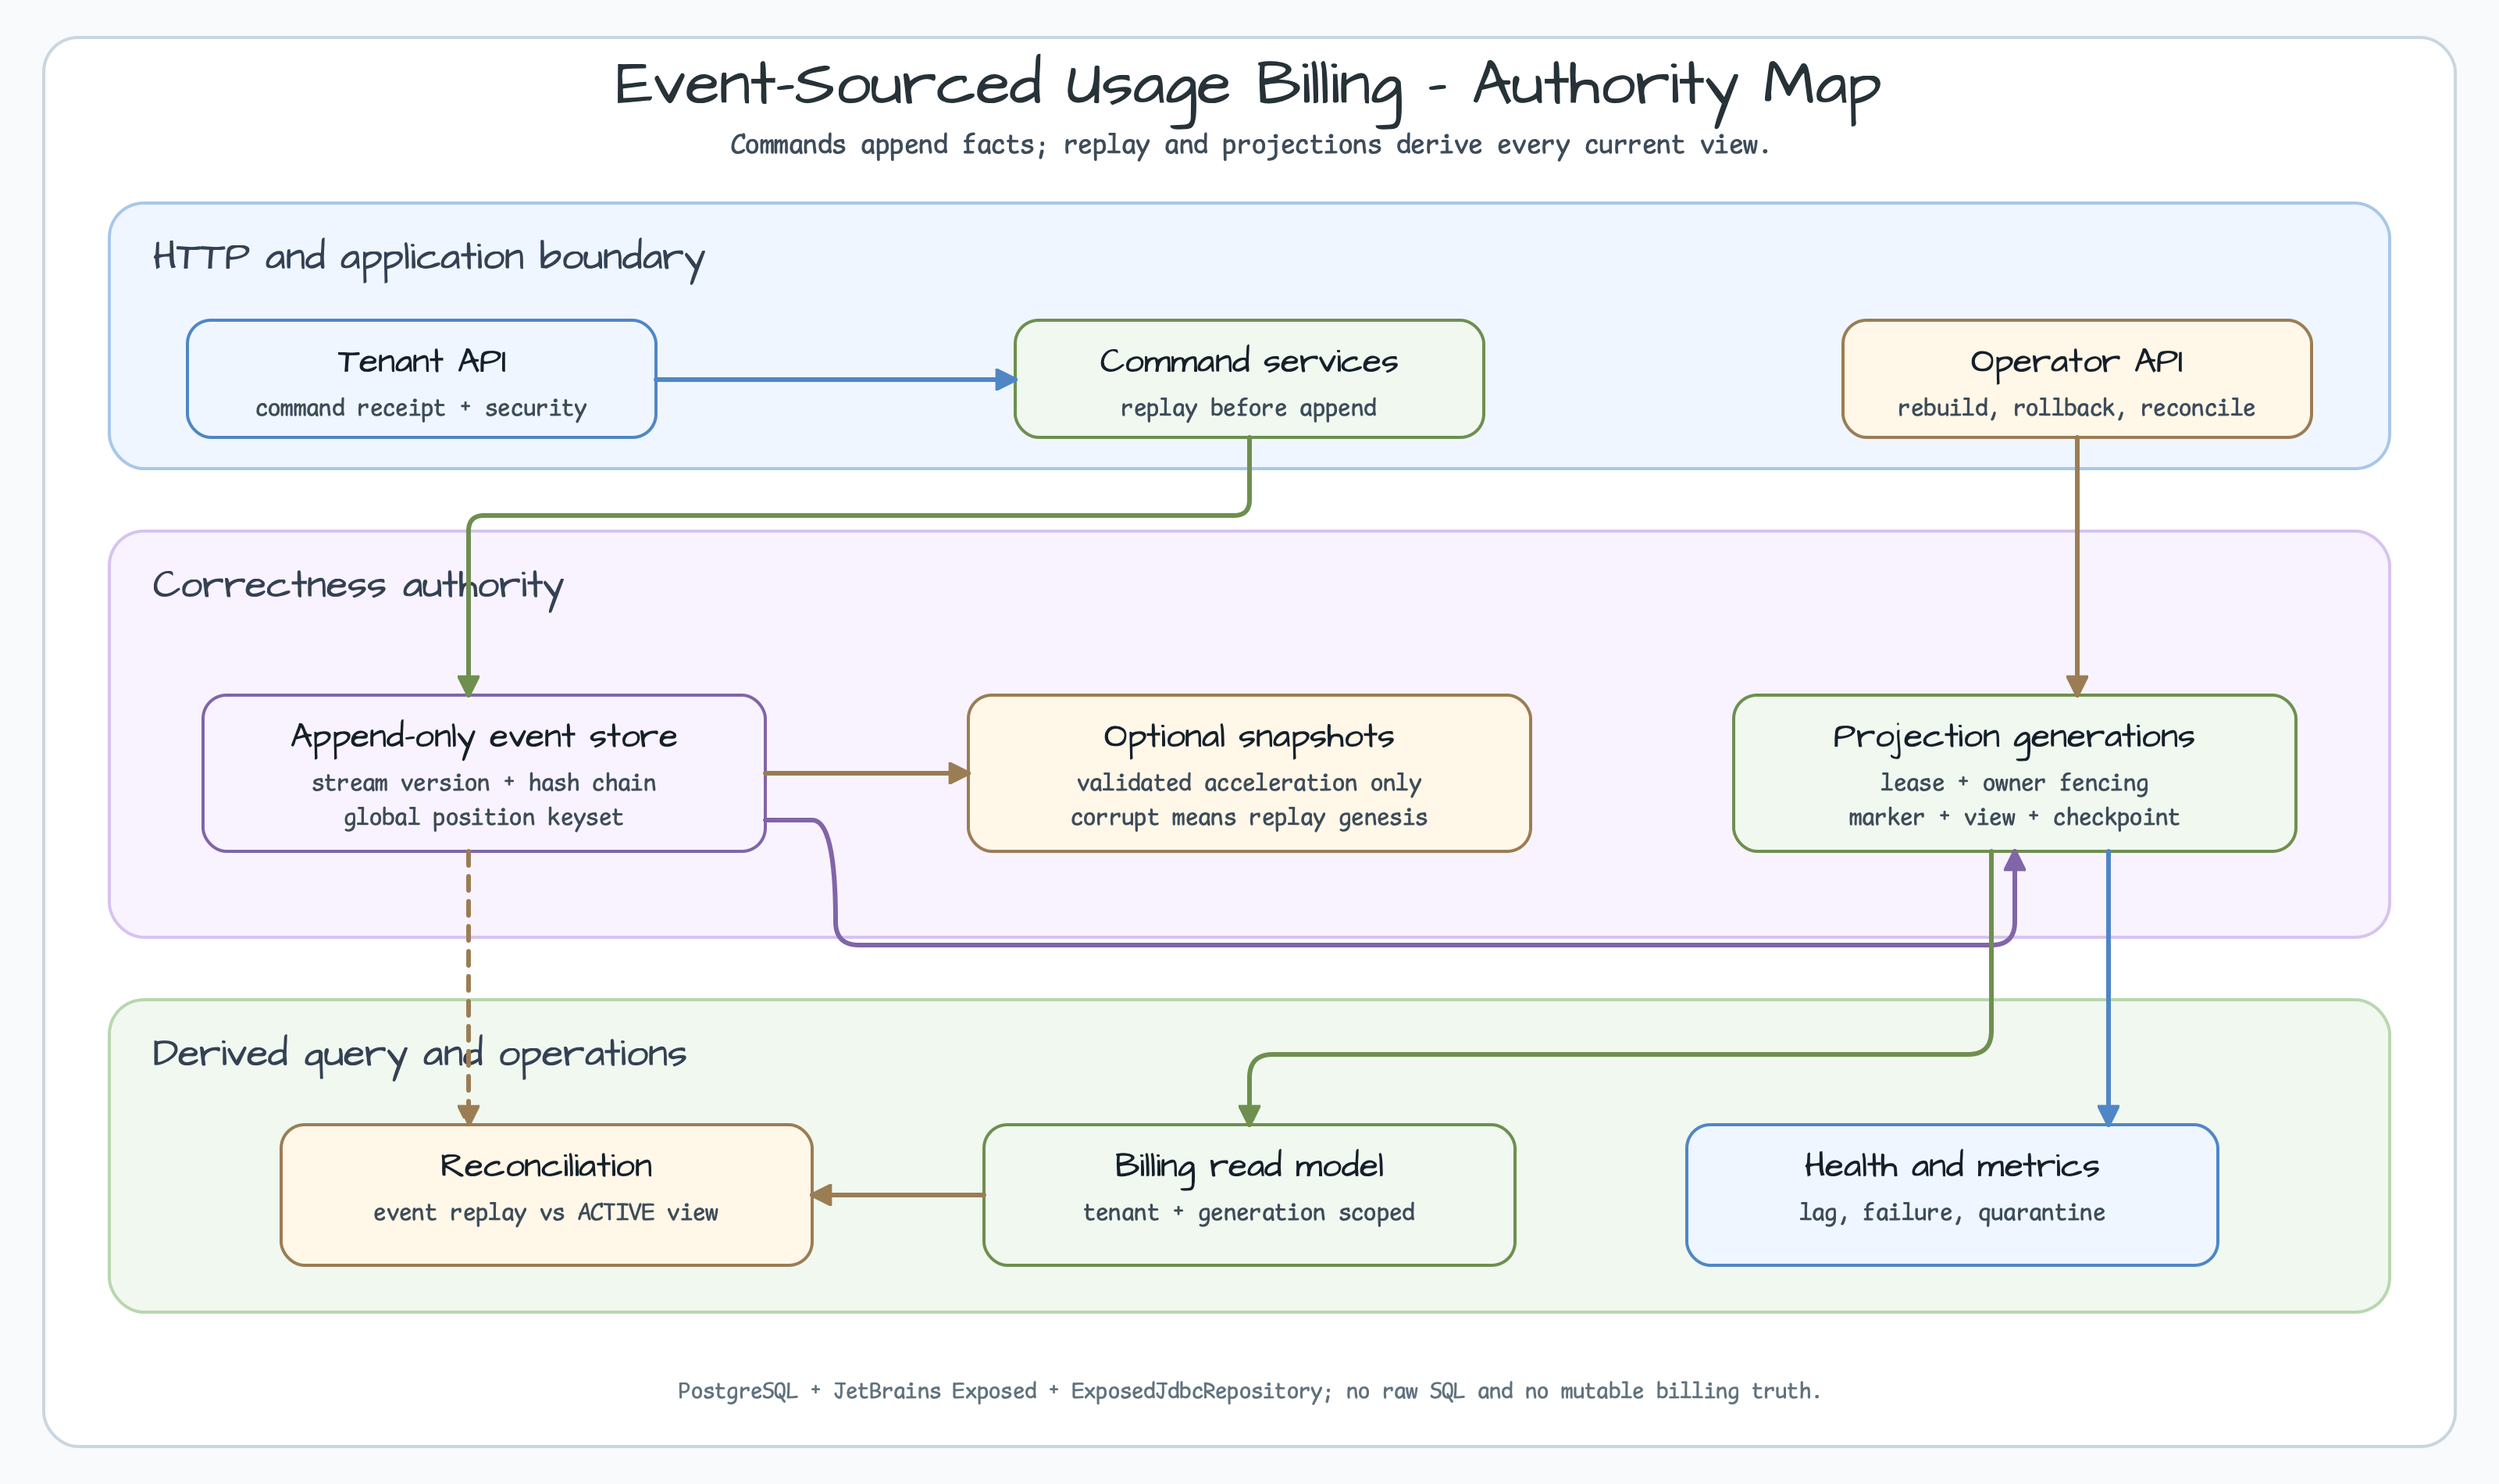
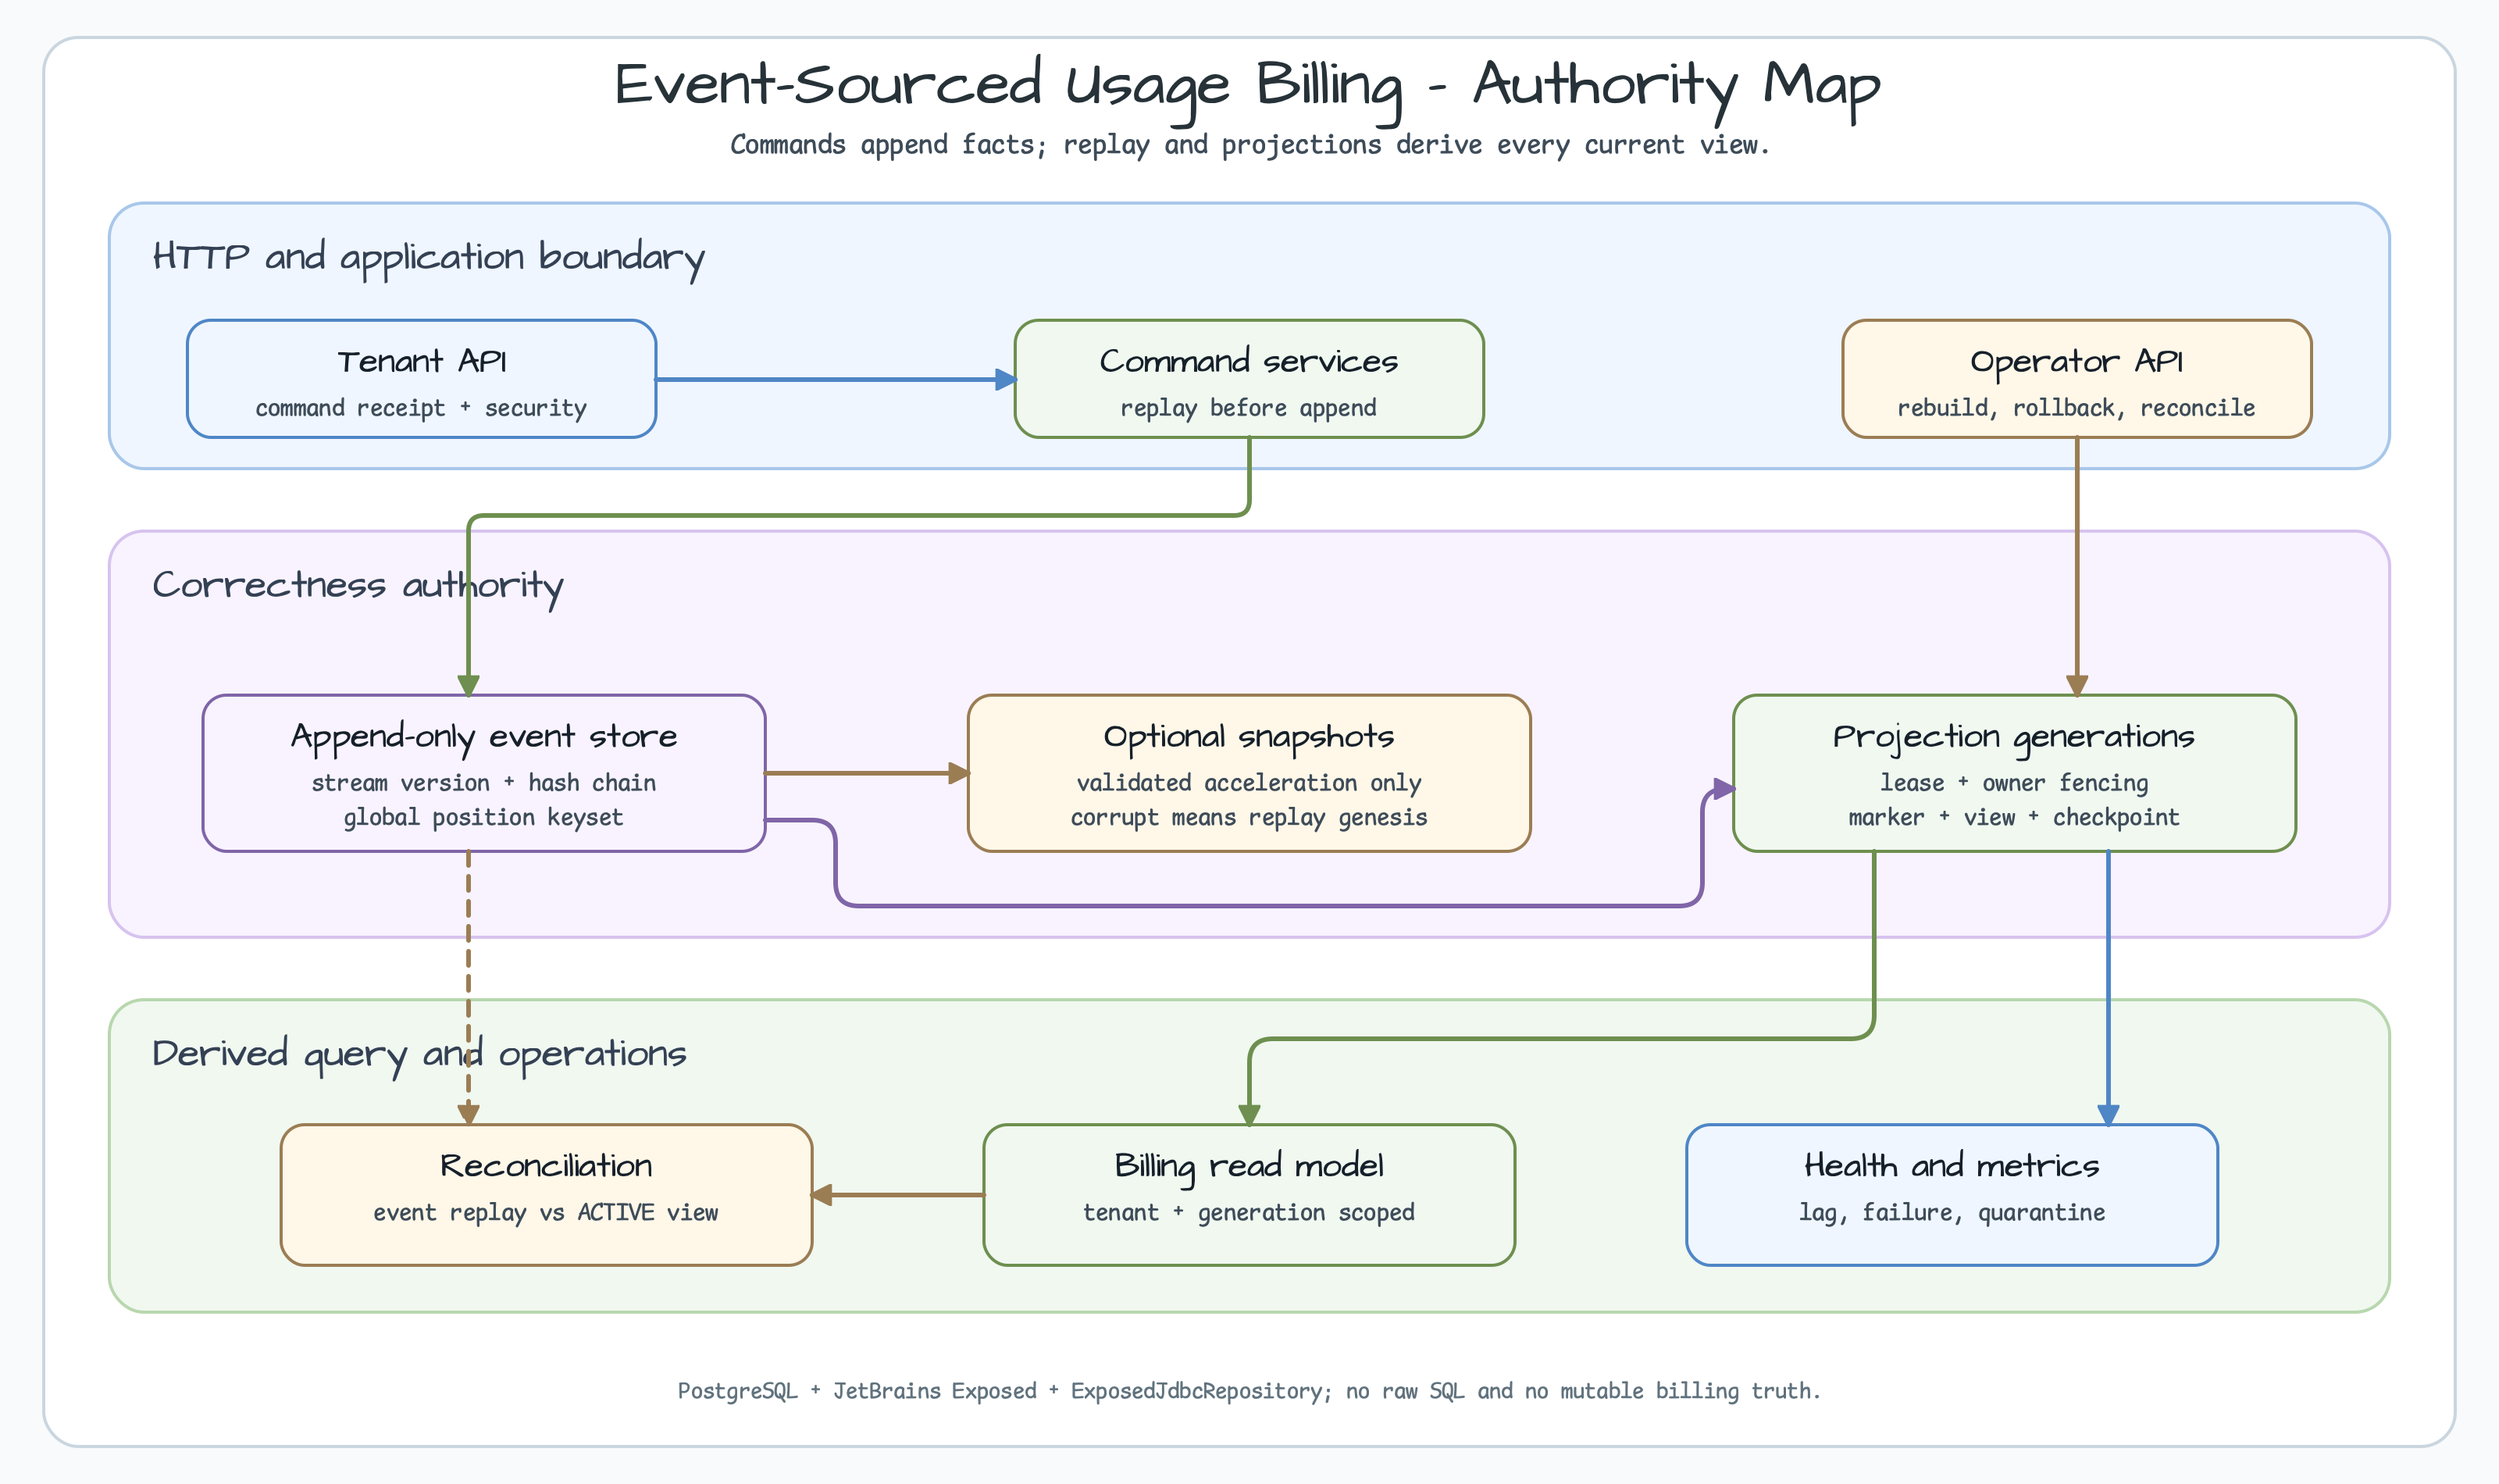
Make rendered billing diagrams trustworthy
Constraint: PNG output is authoritative and must not depend on CairoSVG marker orientation for multi-segment correction flows.
Rejected: marker-only verification | it missed cross-renderer arrowhead direction drift.
Confidence: high
Scope-risk: narrow
Directive: For multi-segment cross-renderer-sensitive arrows, use audited direct heads and inspect the final PNG.
Tested: generator check; SVG XML; text, connector, geometry, endpoint, mixed-corner, direct-head audits; full-size PNG inspection; git diff --check.
Not-tested: Browser renderer matrix beyond the SVG and CairoSVG PNG pair.

Changed region(s): [[0.3438, 0.5589, 0.8125, 0.6521], [0.5, 0.6832, 0.7812, 0.7142], [0.3125, 0.5589, 0.3438, 0.59]]

diff --git a/docs/review/2026-07-22-issue-553-event-sourced-usage-billing-review.md b/docs/review/2026-07-22-issue-553-event-sourced-usage-billing-review.md
@@ -19,6 +19,15 @@
 | P1 | 보안 | `IllegalStateException` message를 그대로 응답해 stream/event 식별자가 노출될 수 있음 | colon 뒤 context를 제거하고 allowlist 형식의 stable error code만 반환 |
 | P1 | 입력 경계 | allowlisted event type이어도 serialized payload byte 상한이 없음 | payload 64 KiB, metadata 4 KiB UTF-8 상한을 codec 경계에서 검사하고 회귀 테스트 추가 |
 | P1 | 운영 정보 | public health와 operator metric endpoint의 공개 범위가 불명확 | health status는 public, detail과 `/actuator/metrics/**`는 `ROLE_OPERATOR`로 제한하고 통합 테스트 추가 |
+| P1 | PNG diagram | architecture의 projection 진입/이탈 connector가 같은 하단 통로에 과도하게 붙고, correction의 multi-segment marker 화살촉이 SVG/PNG에서 방향 drift 가능 | connector 포트를 분리한 rounded-corner route로 재배치하고, correction의 세 화살촉을 선 endpoint에 고정한 direct polygon으로 교체; 방향·색·dash·marker override를 QA에서 검증 |
+
+## PNG authoritative 재검수
+
+- 최초 diagram PASS 판정은 이 두 자산의 full-size PNG에서 connector 통로 분리와 cross-renderer arrowhead parity를 충분히 입증하지 못했으므로 철회한다.
+- architecture는 event store → projection route를 projection 좌측 포트로 종료하고, projection → read model은 별도 하단 좌측 포트와 독립 corridor로 분리했다. connector audit은 `crossings=0`, `shared_segments=0`, `q_bends=8`, `failures=0`이다.
+- correction의 `original-view`, `adjust-view`, `original-reconcile`은 CSS `marker-end`를 명시적으로 끄고 endpoint-tip direct polygon을 사용한다. QA는 connector endpoint와 tip의 일치, 최종 선분 방향, semantic stroke 색, dash 차단을 모두 검사한다.
+- generator 재생성, SVG XML parse, CairoSVG PNG render, geometry/endpoint/connector/mixed-corner audit, QA wrapper, PNG full-size inspection을 두 자산에 각각 다시 수행했다. correction direct-head audit은 `heads=3 failures=0`이다.
+- CairoSVG가 `±` glyph을 대체 문자로 렌더링하는 것도 같은 재검수에서 발견해 `+/-`로 치환했다. rendered PNG가 source SVG와 달라질 수 있는 문자/marker는 PNG 기준으로 계속 검사한다.
 
 ## 6관점 결과
 
@@ -58,7 +67,7 @@
 - operator rebuild는 생성, 멱등 replay, concurrent rebuild 거부, scheduler ACTIVE switch를 한 통합 시나리오로 검증한다.
 - fresh full run에서 unit 19건, PostgreSQL integration 35건, 10,000 usage stress 1건이 실패 없이 통과했다.
 - Kover XML, `build`, `detekt`, `detektTest`, baseline ledger test를 포함한 30개 Gradle task가 `--rerun-tasks`로 모두 실행됐다.
-- module README validator, stale-check, actionlint, generator/shell syntax, 8개 diagram QA와 `git diff --check`가 통과했다.
+- module README validator, stale-check, actionlint, generator/shell syntax, 8개 diagram QA와 `git diff --check`가 통과했다. 이후 PNG diagram 재검수에서 발견된 두 결함은 위의 별도 재검수로 보완했다.
 - repo-wide README parity validator의 기존 3개 실패 모듈은 `origin/develop`과 동일하고 이번 branch가 수정하지 않았다. 대상 모듈 전용 locale/heading/image/contract 검사는 통과했다.
 
 ### 6. Documentation and adoption
